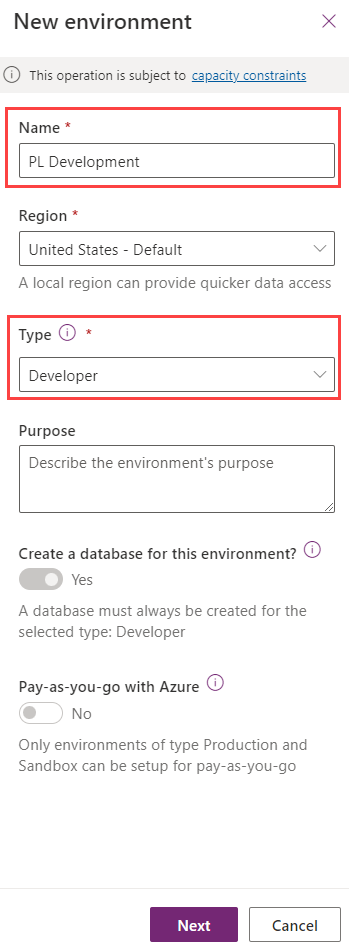
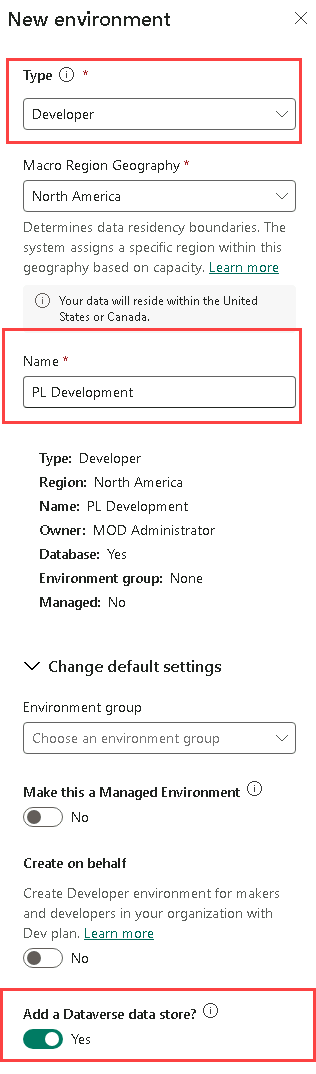
Environment creation steps changed

diff --git a/Instructions/Labs/LAB[PL-400]_Lab00_Validate_lab_environment.md b/Instructions/Labs/LAB[PL-400]_Lab00_Validate_lab_environment.md
@@ -170,9 +170,13 @@ In this exercise, you will create a *Development* environment that you will do t
 
 1. In the **Type** drop down, select **Developer**.
 
+1. In the **Macro Region Geography** drop down, select **North America**.
+
 1. In the **Name** text box, enter `[my initials] Development`. (Example: PL Development).
 
+1. Expand **Change default settings**.
 
+1. Enable **Add a Dataverse data store**.
 
 1. Leave all other selections as default and select **Next**.
 
@@ -196,9 +200,15 @@ In this exercise, you will create a *Development* environment that you will do t
 
 1. Select **+ New**.
 
+1. In the **Type** drop-down, select **Developer**.
+
+1. In the **Macro Region Geography** drop down, select **North America**.
+
 1. In the **Name** text box, enter `[my initials] Production`. (Example: PL Production).
 
-1. In the **Type** drop-down, select **Developer**.
+1. Expand **Change default settings**.
+
+1. Enable **Add a Dataverse data store**.
 
 1. Leave all other selections as default and select **Next**.
 
